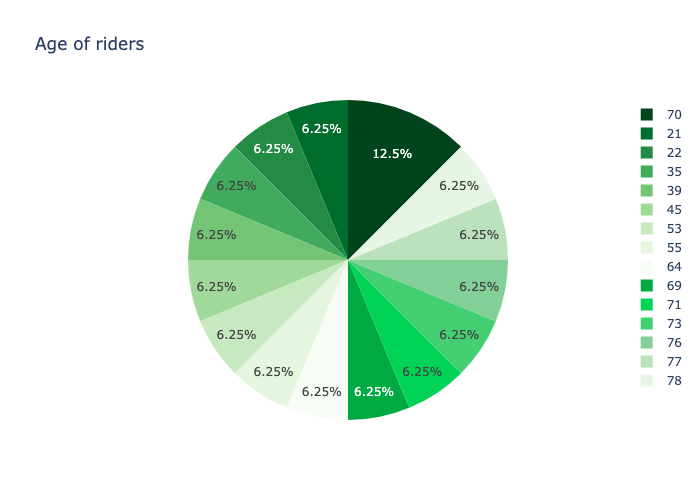
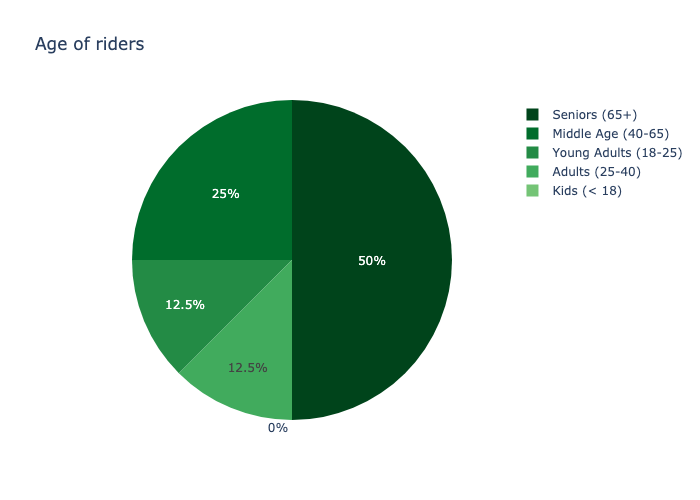
applying age bins and changing last graph to scatter graph

Changed region(s): [[0.18, 0.18, 0.75, 0.87], [0.75, 0.21, 0.99, 0.54], [0.9, 0.54, 0.99, 0.78]]

diff --git a/daily_report_helper.py b/daily_report_helper.py
@@ -103,29 +103,24 @@ def get_age_of_riders_fig(con: sqlalchemy.engine.Connection) :
     Returns a pie chart grouping the age of riders in the last 24 hrs
     """
     query = f"""
-    
-    WITH distinct_riders AS (
         SELECT DISTINCT (user_id), age
         FROM yusra_stories_production.users
         JOIN yusra_stories_production.rides
         USING (user_id)
         WHERE start_time > (NOW() - interval '24 hour')
-        ORDER BY age ASC
-        )
-    SELECT age, COUNT(*) AS number_of_riders
-    FROM distinct_riders
-    GROUP BY age
-    ORDER BY age;
+        ORDER BY age ASC;
     """
     ages_of_riders = pd.read_sql_query(query, con)
-    ages_of_riders_fig = px.pie(ages_of_riders, values='number_of_riders', names='age', title=f'Age of riders', color_discrete_sequence=px.colors.sequential.Greens_r)
+    age_bins = get_age_bins(ages_of_riders)
+    groupby_age_df = groupby_age_df = ages_of_riders.groupby([age_bins])[['user_id']].count().sort_values(by = 'user_id', ascending = False).reset_index()
+    ages_of_riders_fig = px.pie(groupby_age_df, values='user_id', names='age', title=f'Age of riders', color_discrete_sequence=px.colors.sequential.Greens_r)
     return ages_of_riders_fig
 
 def get_age_bins(df: pd.DataFrame):
     """
     Segments customer age column into age bins
     """
-    return pd.cut(df['customer_age'], bins = [0,18,26,39,65,np.inf], labels=["Kids (< 18)","Young Adults (18-25)", "Adults (25-40)", "Middle Age (40-65)", "Seniors (65+)"])
+    return pd.cut(df['age'], bins = [0,18,26,39,65,np.inf], labels=["Kids (< 18)","Young Adults (18-25)", "Adults (25-40)", "Middle Age (40-65)", "Seniors (65+)"])
 
 def get_average_ride_stats_fig(con: sqlalchemy.engine.Connection) :
     """
@@ -142,7 +137,7 @@ def get_average_ride_stats_fig(con: sqlalchemy.engine.Connection) :
     GROUP BY user_id;
     """
     riders_average_power_and_heart_rate = pd.read_sql_query(query, con)
-    riders_average_power_and_heart_rate_fig = px.bar(riders_average_power_and_heart_rate, x= 'average_power_kj', y='average_heart_rate_bpm', 
+    riders_average_power_and_heart_rate_fig = px.scatter(riders_average_power_and_heart_rate, x= 'average_power_kj', y='average_heart_rate_bpm', 
         color_discrete_sequence=px.colors.sequential.Greens_r, 
         labels=dict(average_power_kj ="Average power (KJ)", average_heart_rate_bpm="Average heart rate (bpm"),
         title = 'Average power vs Average heart rate for each rider'

diff --git a/daily_report.py b/daily_report.py
@@ -7,7 +7,6 @@ graph_names = get_graph_names()
 output_graphs_to_png(graphs, graph_names)
 save_all_images_to_bucket(graph_names)
 urls = get_all_image_urls(graph_names)
-print(urls)
 number_of_rides = get_number_of_rides(con)
 report = get_report(urls, number_of_rides)
 send_report('trainee.yusra.anshoor@sigmalabs.co.uk', report)
